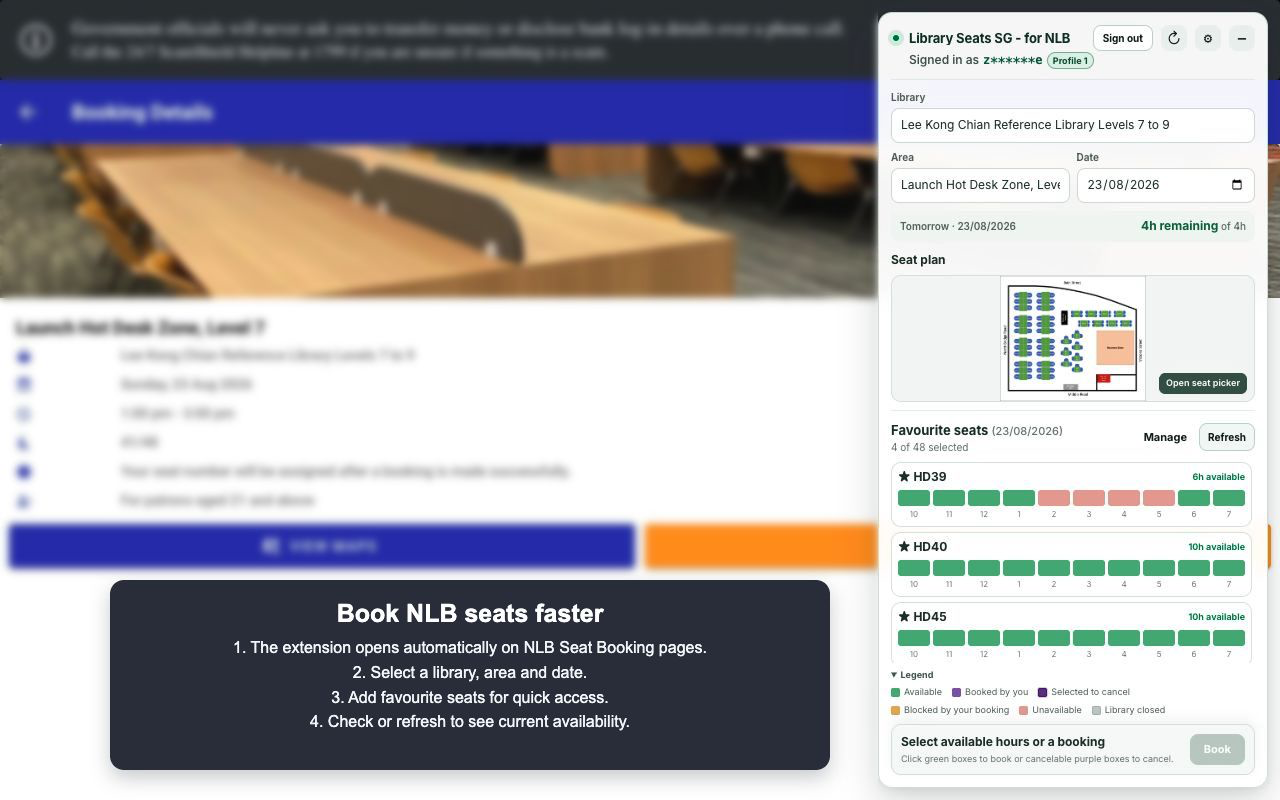
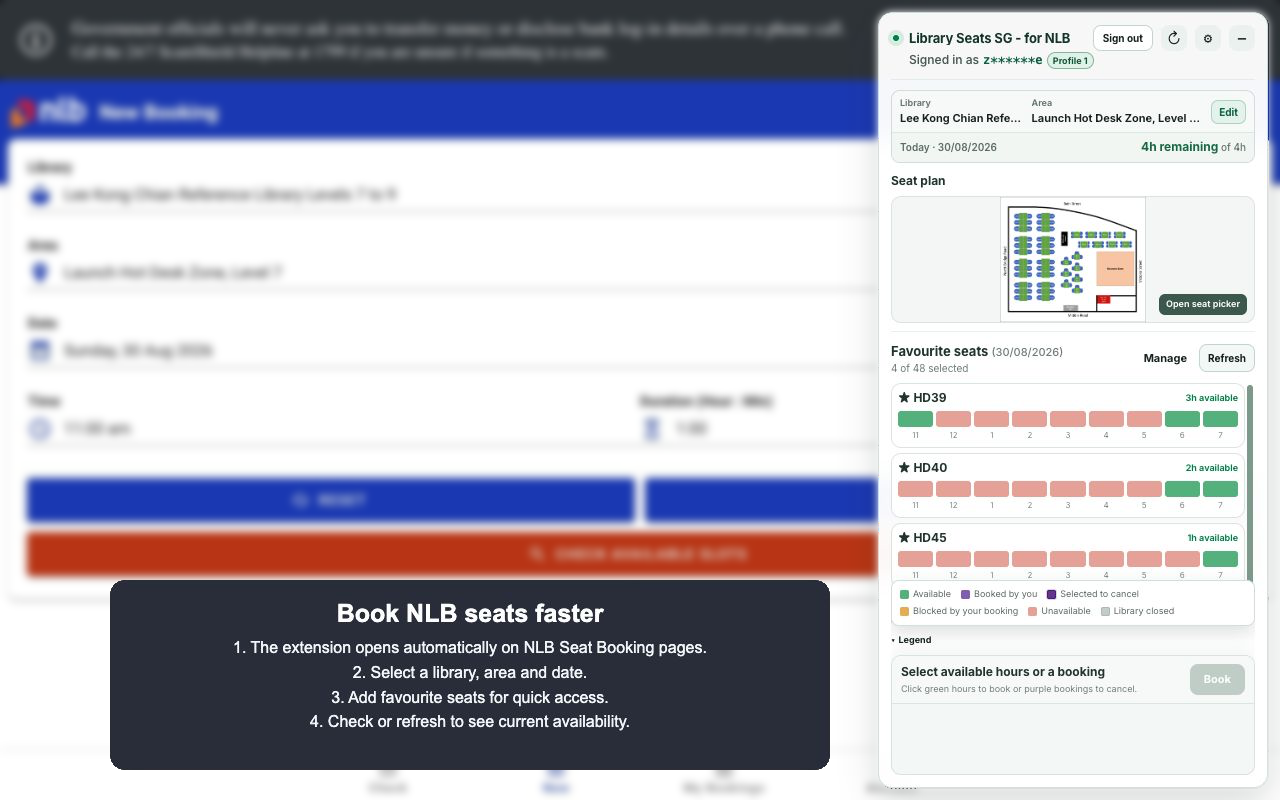
Prepare 1.4.1 release assets

diff --git a/assets/chrome-web-store/README.md b/assets/chrome-web-store/README.md
@@ -1,10 +1,16 @@
 # Chrome Web Store assets
 
-These are the v1.3.2 listing assets for Library Seats SG - for NLB. The promo
+These are the listing assets for Library Seats SG - for NLB. The promo
 tile is wholly original project artwork. The feature screenshots intentionally
 show the extension running on NLB's Seat Booking page, including the runtime
 seat plan, because the combined map-and-availability experience is a core
 product feature.
+
+The current workspace and booking-flow PNGs predate the final 1.4.1 compact
+selection summary and fixed post-favourites region. Do not upload them as the
+1.4.1 set until each replacement has been planned, captured, edited, and
+visually approved individually. The existing files remain the working baseline
+until authentic replacement captures are available.
 
 The screenshot decision is a conscious, limited-use risk position rather than
 a conclusion that NLB has licensed its maps for promotional reproduction. NLB
@@ -18,12 +24,12 @@ packaged, rehosted, or reused in the promo tile.
 | `small-promo-tile.png` | 440×280 | Required small promotional tile |
 | `store-overview.png` | 1280×800 | Introductory overview: automatic launch, library/area/date selection, favourites, and availability refresh |
 | `store-seat-picker.png` | 1280×800 | Enlarged seat picker showing seat lookup and saving a seat to favourites |
-| `booking-flow-01-selection.png` | 1280×800 | Two selected sessions, with combine/separate booking controls visible |
+| `booking-flow-01-selection.png` | 1280×800 | Two selected sessions, with the fixed booking action region and compact booking-mode control visible |
 | `booking-flow-02-confirmation.png` | 1280×800 | Confirmation dialog showing both booking requests before submission |
 | `booking-flow-03-success.png` | 1280×800 | Successful booking status for both sessions |
 | `booking-flow-04-upcoming.png` | 1280×800 | Upcoming bookings showing the 11am–1pm session and lunch break before 2pm–4pm |
 
-Chrome permits up to five listing screenshots. The recommended v1.3.2 upload
+Chrome permits up to five listing screenshots. The recommended v1.4.1 upload
 sequence is `store-overview.png`, `store-seat-picker.png`,
 `booking-flow-01-selection.png`, `booking-flow-02-confirmation.png`, and
 `booking-flow-04-upcoming.png`. `booking-flow-03-success.png` is retained as an

diff --git a/docs/features.md b/docs/features.md
@@ -1,7 +1,7 @@
 # Feature reference
 
 This document records the detailed user-visible capabilities and safeguards in
-Library Seats SG - for NLB v1.4.0. The shorter project overview and normal usage
+Library Seats SG - for NLB v1.4.1. The shorter project overview and normal usage
 steps remain in the repository [`README`](../README.md).
 
 ## Account and quota
@@ -57,6 +57,9 @@ steps remain in the repository [`README`](../README.md).
 
 - Lets users choose the library, area, and date from the extension workspace
   before reviewing seat availability.
+- Collapses a complete library, area, and date into an editable summary with
+  the selected-date quota in its footer. **Edit** restores the normal controls
+  and native date input; **Done** returns to the compact view.
 - Extracts the current library, area, seat, and booking rules from NLB's
   `GetAccountInfo` response.
 - Excludes `facilityId: 2` discussion rooms and breakout rooms.
@@ -89,6 +92,13 @@ steps remain in the repository [`README`](../README.md).
   lists naturally, and makes longer favourite lists the primary scroll region.
   On short viewports, the workspace itself scrolls while the booking summary
   stays usable without covering the favourite seats.
+- Keeps a visible scrollbar indicator beside an overflowing favourite list,
+  including where Chrome or macOS would normally hide the native scrollbar.
+- Reserves a fixed post-favourites action region so booking, cancellation,
+  errors, and status details do not change the favourite list's visible
+  height. Variable details scroll inside that region.
+- Places the timeline Legend immediately after Favourite seats and opens its
+  explanation as a dismissible popover that does not consume layout height.
 - Displays the reviewed `-sp` map for an annotated branch and area. For an
   unreviewed area, it uses only `areaMapUrls` attached to that exact area in
   the NLB response.

diff --git a/docs/firefox-add-ons-publication.md b/docs/firefox-add-ons-publication.md
@@ -85,9 +85,23 @@ changes, the version 1.4.0 behaviors above, and confirmation that
 private/incognito use is unavailable. Do not make or cancel a real booking
 solely for testing.
 
-Store screenshots must be checked in Firefox before submission. Existing
-privacy-safe 1280×800 captures may be reused only if the Firefox rendering
-matches; recapture any image with a browser-specific discrepancy.
+For version 1.4.1, verify in both Firefox and Chrome that:
+
+- a restored complete library, area, and date appears in the compact summary,
+  including the selected-date quota footer;
+- **Edit** restores the normal selects and native date input, and **Done**
+  returns to the compact summary without changing the saved selection;
+- overflowing favourite-seat lists keep a visible scrollbar indicator;
+- selecting booking or cancellation cells does not resize the favourite list,
+  because variable details scroll inside the reserved post-favourites region;
+- the Legend and booking-mode explanations open as non-layout popovers and do
+  not cover the primary Book or Cancel action; and
+- the empty-area **Choose favourite seats** action opens the seat picker.
+
+Store screenshots must be captured or checked in Firefox before submission.
+Use clean Firefox-native images and describe their meaning in the AMO listing
+text; do not reuse a Chrome-native date-picker capture or a caption-heavy
+Chrome composite when Firefox renders the state differently.
 
 ## Publication boundary
 

diff --git a/docs/chrome-web-store-publication.md b/docs/chrome-web-store-publication.md
@@ -170,7 +170,7 @@ and [publisher ownership](https://developer.chrome.com/docs/webstore/share-owner
 | Upload ZIP | `manifest.json` at the archive root | Packaging script supports this |
 | Manifest | MV3, accurate name, description, version, icons | Complete; summary is 108 characters |
 | Store icon | 128×128 PNG in the package | Present and correctly padded |
-| Screenshots | 1–5 at 1280×800 or 640×400 | Six 1.3.2 feature candidates prepared under `assets/chrome-web-store/`; the recommended upload set uses five, and authenticated masked-profile details require publisher approval |
+| Screenshots | 1–5 at 1280×800 or 640×400 | Six feature candidates are stored under `assets/chrome-web-store/`; recapture the workspace and booking-flow images for 1.4.1, then upload the recommended five after privacy review |
 | Small promo tile | 440×280 | Prepared under `assets/chrome-web-store/` |
 | Marquee image | 1400×560 | Optional and missing |
 | Summary | Plain text, no more than 132 characters | Draft below |
@@ -204,7 +204,7 @@ receiving closer examination. See the
 Use only sanitised or approved examples. Never show real user IDs, booking
 references, account responses, or dates connected to real bookings.
 
-Recommended five-screenshot sequence for v1.3.2:
+Recommended five-screenshot sequence for v1.4.1:
 
 1. introduce the workspace and automatic launch on an NLB Seat Booking page;
 2. locate seats in the enlarged seat picker and save favourites;

diff --git a/assets/firefox-add-ons/README.md b/assets/firefox-add-ons/README.md
@@ -1,10 +1,17 @@
 # Firefox Add-ons listing assets
 
-Use the privacy-safe 1280×800 images in `assets/chrome-web-store/` as the
-candidate AMO screenshot sequence. Before submission, load version 1.4.0 in
-Firefox and verify that each represented state matches Firefox rendering.
-Recapture any state with a browser-specific discrepancy and place the approved
-Firefox capture in this directory.
+Prepare clean Firefox-native captures in this directory for the AMO listing.
+Use the same feature sequence as the privacy-safe images under
+`assets/chrome-web-store/`, but do not reuse Chrome-native date pickers or
+caption-heavy composites when Firefox renders the state differently. Mozilla's
+listing guidance recommends explaining annotations in listing text rather than
+baking explanatory copy into screenshots.
+
+Before submission, load version 1.4.1 in Firefox and verify each represented
+state, including the native date picker, compact library/area/date summary,
+fixed post-favourites region, Legend popover, and booking-mode help popover.
+Keep each approved Firefox capture in this directory and reference its purpose
+in the listing description.
 
 The 64×64 AMO icon is `public/icons/icon-64.png`. Do not upload screenshots
 containing an NLB account identifier, booking reference, personal browser UI,

diff --git a/docs/chrome-web-store-submission.md b/docs/chrome-web-store-submission.md
@@ -1,6 +1,6 @@
 # Chrome Web Store submission sheet
 
-Status: ready-to-paste draft for Library Seats SG - for NLB v1.3.2, reviewed
+Status: ready-to-paste draft for Library Seats SG - for NLB v1.4.1, reviewed
 20 August 2026. Recheck the dashboard labels and the exact uploaded ZIP at
 submission time.
 
@@ -195,6 +195,9 @@ Safety and network behavior:
   recommended screenshots: `store-overview.png`, `store-seat-picker.png`,
   `booking-flow-01-selection.png`, `booking-flow-02-confirmation.png`, and
   `booking-flow-04-upcoming.png` from `assets/chrome-web-store/`.
+- [ ] Confirm the 1.4.1 workspace captures show the compact selection summary,
+  fixed post-favourites action region, and current compact booking-mode UI;
+  reject any capture that still shows the superseded large radio cards.
 - [ ] Keep `booking-flow-03-success.png` as an approved alternate because the
   Chrome Web Store listing accepts at most five screenshots.
 - [ ] Approve or recapture the visible masked profile, booking date, seat

diff --git a/docs/firefox-add-ons-submission.md b/docs/firefox-add-ons-submission.md
@@ -3,7 +3,7 @@
 ## Product fields
 
 - Name: **Library Seats SG - for NLB**
-- Version: **1.4.0**
+- Version: **1.4.1**
 - Permanent ID: **library-seats-sg@teamcmcbot.github.io**
 - Platform: **Firefox Desktop only**
 - Minimum Firefox: **140**
@@ -67,10 +67,11 @@ source archive as reviewer source.
 
 ## Pre-submission checklist
 
-- Confirm package, lockfile, and manifest all say 1.4.0.
+- Confirm package, lockfile, and manifest all say 1.4.1.
 - Run the complete automated validation documented in `docs/releasing.md`.
 - Complete and record the Firefox and Chrome smoke tests.
-- Verify every screenshot against Firefox and remove personal information.
+- Verify every screenshot against Firefox, remove personal information, and
+  reject Chrome-native date-picker captures or superseded booking controls.
 - Confirm desktop-only targeting, category, licence, privacy URL, and support
   URL in the live AMO form.
 - Confirm the three required data categories and no optional telemetry.

diff --git a/RELEASE_NOTES.md b/RELEASE_NOTES.md
@@ -26,7 +26,17 @@ seat lists easier to navigate.
 
 ## Validation
 
-- Full regression suite, typecheck, and production build passed.
+- Full regression suite passed: 42 test files and 287 tests.
+- Typecheck, Chrome and Firefox production packaging, Firefox strict lint, and
+  all three archive-integrity checks passed.
+- The AMO reviewer-source archive rebuilt an extracted Firefox package whose
+  files were byte-for-byte identical to the release candidate.
+- Runtime dependency audit passed with zero known vulnerabilities. The full
+  development audit reports the documented `image-size` advisories inherited
+  through Mozilla's `addons-linter` and `web-ext`; those build tools are not
+  included in the extension package.
+- Live Chrome and Firefox 1.4.1 smoke testing and refreshed store screenshots
+  remain required before publication.
 
 # Library Seats SG - for NLB v1.4.0
 

diff --git a/docs/releasing.md b/docs/releasing.md
@@ -80,14 +80,14 @@ the unsigned ZIP to a GitHub release.
 
 ## Publish
 
-For version `1.4.0`:
+For version `1.4.1`:
 
 ```bash
-git tag v1.4.0
-git push origin v1.4.0
-gh release create v1.4.0 nlb-seat-helper.zip \
+git tag v1.4.1
+git push origin v1.4.1
+gh release create v1.4.1 nlb-seat-helper.zip \
   --repo teamcmcbot/nlb-seat-booking-extension \
-  --title "Library Seats SG - for NLB v1.4.0" \
+  --title "Library Seats SG - for NLB v1.4.1" \
   --notes-file RELEASE_NOTES.md
 ```
 

diff --git a/docs/chrome-web-store-privacy-declarations.md b/docs/chrome-web-store-privacy-declarations.md
@@ -1,6 +1,6 @@
 # Chrome Web Store privacy declarations
 
-Status: submission worksheet based on Library Seats SG - for NLB v1.3.2 behavior,
+Status: submission worksheet based on Library Seats SG - for NLB v1.4.1 behavior,
 reviewed 20 August 2026.
 
 This worksheet maps the extension's actual behavior to the Chrome Web Store

diff --git a/docs/firefox-add-ons-data-declarations.md b/docs/firefox-add-ons-data-declarations.md
@@ -1,6 +1,6 @@
 # Firefox Add-ons data declarations
 
-This worksheet maps version 1.4.0 to Mozilla's built-in data-consent manifest
+This worksheet maps version 1.4.1 to Mozilla's built-in data-consent manifest
 categories. It must be re-reviewed if NLB integration, persistence, analytics,
 or network destinations change.
 
